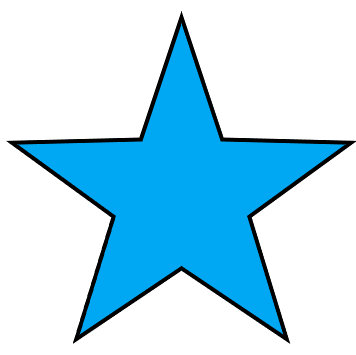
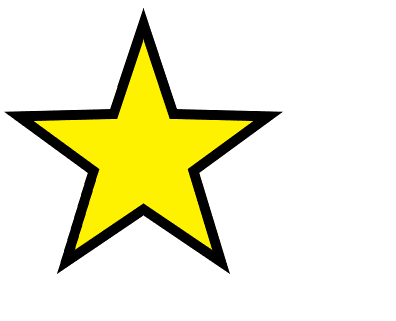
fixed glad loading problem

diff --git a/Peng/specificOpenGL/OpenGLShader.cpp b/Peng/specificOpenGL/OpenGLShader.cpp
@@ -16,11 +16,12 @@ namespace Peng {
 		while (vertexInput) {
 			std::string line;
 			getline(vertexInput, line);
+			line.append("\n");
 			sourceCode += line;
 		}
 
 		vertexInput.close();
-		PENG_LOG(sourceCode);
+
 		const char* cSource = sourceCode.c_str();
 		glShaderSource(vertexShader, 1, &cSource, NULL);
 		glCompileShader(vertexShader);
@@ -42,6 +43,7 @@ namespace Peng {
 		while (fragmentInput) {
 			std::string line;
 			getline(fragmentInput, line);
+			line.append("\n");
 			sourceCode += line;
 		}
 
@@ -70,6 +72,8 @@ namespace Peng {
 			glGetProgramInfoLog(shaderProgram_, 512, NULL, infoLog);
 			std::cout << "Error shader linking compilation failed\n" << infoLog << std::endl;
 		}
+		glDeleteShader(vertexShader);
+		glDeleteShader(fragmentShader);
 	}
 
 	void OpenGLShader::SetUniform3Ints(const std::string& uniformName, int val1, int val2, int val3)

diff --git a/Peng/PengApp.cpp b/Peng/PengApp.cpp
@@ -13,14 +13,14 @@ namespace Peng {
 	void PengApp::Run() {
 
 		PENG_LOG("Peng has initiated...\n");
-
 		Peng::GameWindow::Init();
 
 		Peng::GameWindow::GetWindow()->CreateWindow(800,600,"Pengine");
+		gladLoadGL();
 
 		Peng::Shader shader{ "../Peng/Assets/Shaders/defaultVertex.glsl","../Peng/Assets/Shaders/defaultFragment.glsl" };
 		shader.SetUniform2Ints("windowSize", 800, 600);
-		shader.SetUniform3Ints("spriteCoord", 100, 200, 1.0f);
+		shader.SetUniform3Ints("spriteCoord", 0, 0, 1.0);
 
 		Peng::Sprite star{"../Peng/Assets/Images/Star.png"};
 
